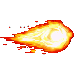
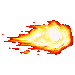
Fixed fireball

diff --git a/src/Server/Projectile/ServerProjectile.java b/src/Server/Projectile/ServerProjectile.java
@@ -51,6 +51,16 @@ public class ServerProjectile extends ServerFlyingObject
 	private int length;
 
 	/**
+	 * Whether or not the projectile is animated
+	 */
+	private boolean animated;
+
+	/**
+	 * The frame of animation for the projectile
+	 */
+	private int animationCounter;
+
+	/**
 	 * Constructor for a projectile
 	 * @param x
 	 * @param y
@@ -62,15 +72,14 @@ public class ServerProjectile extends ServerFlyingObject
 	 * @param speed
 	 * @param angle
 	 */
-	public ServerProjectile(double x, double y, ServerCreature owner, double angle, String type)
+	public ServerProjectile(double x, double y, ServerCreature owner,
+			double angle, String type)
 	{
 		super(x, y, 0, 0, 0, "", 0, angle, type);
 		this.owner = owner;
 		ownerID = owner.getID();
-	
-		
-		
-		setAngle(angle,true);
+
+		setAngle(angle, true);
 
 		switch (type)
 		{
@@ -79,12 +88,14 @@ public class ServerProjectile extends ServerFlyingObject
 			setGravity(0.3);
 			setDamage(5);
 			setSpeed(20);
+			animated = false;
 			break;
 		case ServerWorld.FIREBALL_TYPE:
-			setImage("FIREBALL_0.png");
+			setImage("FIREBALL_0_0.png");
 			setGravity(0);
 			setDamage(10);
 			setSpeed(15);
+			animated = true;
 			break;
 		}
 
@@ -102,24 +113,45 @@ public class ServerProjectile extends ServerFlyingObject
 	 */
 	public void update()
 	{
+
 		setAngle(Math.atan2(getVSpeed(), getHSpeed()), false);
-		
+
 		hitbox.setLine(getX()
 				- ((length / 2) * Math.cos(getAngle())), getY()
 				- ((length / 2) * Math.sin(getAngle())), getX()
 				+ ((length / 2) * Math.cos(getAngle())), getY()
 				+ ((length / 2) * Math.sin(getAngle())));
-		
 
 		int imageAngle = (int) (Math.round(Math.toDegrees(getAngle()) / 15.0) * 15);
-		
+
 		if (imageAngle <= -180)
 		{
-			imageAngle = 180 - (-180 - imageAngle); 
+			imageAngle = 180 - (-180 - imageAngle);
 		}
-		
-		setImage(getBaseImage() + "_" + imageAngle + ".png");
-		
+
+		if (animated)
+		{
+			animationCounter++;
+			if (animationCounter >= 20)
+			{
+				animationCounter = 0;
+			}
+			
+			int imageNo = 1;
+			
+			if (animationCounter < 10)
+			{
+				imageNo = 0;
+			}
+			
+			setImage(getBaseImage() + "_" + imageNo + "_" + imageAngle
+					+ ".png");
+		}
+		else
+		{
+			setImage(getBaseImage() + "_" + imageAngle + ".png");
+		}
+
 	}
 
 	/**
@@ -146,11 +178,14 @@ public class ServerProjectile extends ServerFlyingObject
 			setMapVisible(false);
 			damage = 0;
 			counter = 0;
-			setX(getX() - 5);
-			setY(getY() - 5);
+			setX(getX() - 32);
+			setY(getY() - 32);
 			setImage("EXPLOSION2_0.png");
 		}
-		super.destroy();
+		else
+		{
+			super.destroy();
+		}
 
 	}
 
@@ -191,8 +226,7 @@ public class ServerProjectile extends ServerFlyingObject
 		{
 			super.destroy();
 		}
-		
-		
+
 		counter++;
 
 	}

diff --git a/src/Imports/Images.java b/src/Imports/Images.java
@@ -125,7 +125,7 @@ public class Images
 						"EXPLOSION2_SHEET.png"));
 				for (int no = 0; no < image.getWidth()/64; no++)
 				{
-					images.add(new GameImage("EXPLOSION_" + no + IMAGE_FORMAT,
+					images.add(new GameImage("EXPLOSION2_" + no + IMAGE_FORMAT,
 							image.getSubimage(no * 64, 0, 64, 64)));
 				}
 				
@@ -340,15 +340,19 @@ public class Images
 
 						AffineTransformOp op = new AffineTransformOp(tx,
 								AffineTransformOp.TYPE_BILINEAR);
-
-						BufferedImage newImage = op
-								.filter(image, null).getSubimage(0, 0,image.getWidth()-1, image.getHeight()-1);
+						
+						BufferedImage newImage = op.filter(image, null);
+			
+						int cropWidth = Math.min(image.getWidth(), newImage.getWidth());
+						int cropHeight = Math.min(image.getHeight(), newImage.getHeight());
+								
+						newImage = newImage.getSubimage(0, 0,cropWidth, cropHeight);
 
 						
 						images.add(new GameImage(
 								projectiles[no] + "_" + (actualAngle) + ".png",
 								newImage,34,34));
-						ImageIO.write(newImage, "PNG", new File(projectiles[no] + "_" + (actualAngle) + ".png"));
+						//ImageIO.write(newImage, "PNG", new File(projectiles[no] + "_" + (actualAngle) + ".png"));
 					}
 				}
 				

diff --git a/src/Server/ServerWorld.java b/src/Server/ServerWorld.java
@@ -36,8 +36,7 @@ public class ServerWorld
 	public final static String ARROW_TYPE = PROJECTILE_TYPE +"A";
 	public final static String FIREBALL_TYPE = PROJECTILE_TYPE +"F";
 	
-	
-	public final static String EXPLOSION_TYPE = "E";
+
 
 	public final static char CREATURE_TYPE = 'C';
 	public final static String PLAYER_TYPE = CREATURE_TYPE + "C";
@@ -89,6 +88,9 @@ public class ServerWorld
 	public final static char ANIMATION_TYPE = 'A';
 	public final static String WEAPON_SWING_TYPE = ANIMATION_TYPE + "S";
 	public final static String ACCESSORY_TYPE = ANIMATION_TYPE + "A";
+	
+	
+	public final static String EXPLOSION_TYPE = ANIMATION_TYPE + "E";
 
 	public final static char TEXT_TYPE = 'T';
 	public final static String DAMAGE_INDICATOR_TYPE = TEXT_TYPE + "D";
@@ -763,6 +765,10 @@ public class ServerWorld
 						if (object.getType().equals(WEAPON_SWING_TYPE))
 						{
 							((ServerWeaponSwing) object).update();
+						}
+						else if (object.getType().equals(EXPLOSION_TYPE))
+						{
+							((ServerProjectile)object).updateExplosion();
 						}
 					}
 					else if (object.getType().charAt(0) == CREATURE_TYPE)

diff --git a/src/Server/Creatures/ServerPlayer.java b/src/Server/Creatures/ServerPlayer.java
@@ -892,7 +892,7 @@ public class ServerPlayer extends ServerCreature implements Runnable
 		{
 
 			world.add(new ServerProjectile(getX() + getWidth() / 2, getY()
-					+ getHeight() / 4, this, angle, ServerWorld.ARROW_TYPE));
+					+ getHeight() / 4, this, angle, ServerWorld.FIREBALL_TYPE));
 			actionDelay = 15;
 			action = "FIRE";
 
